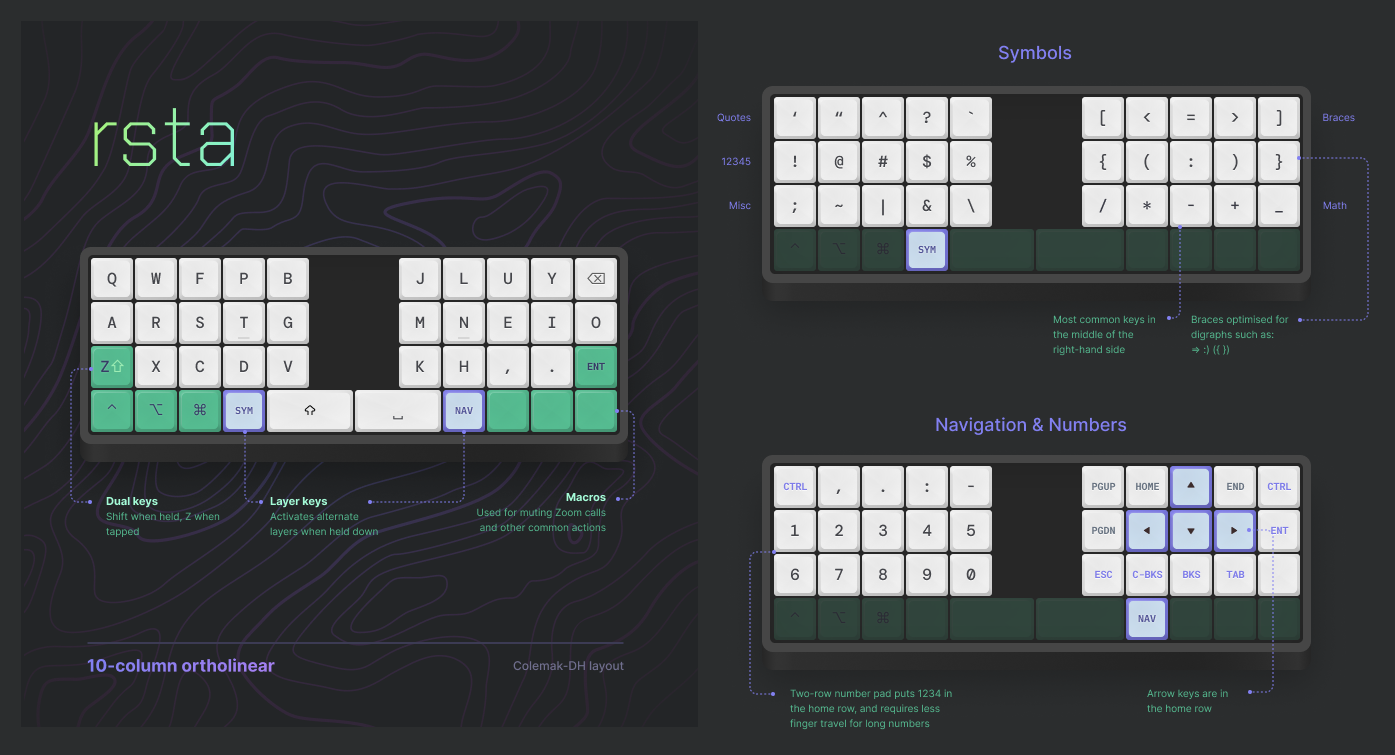
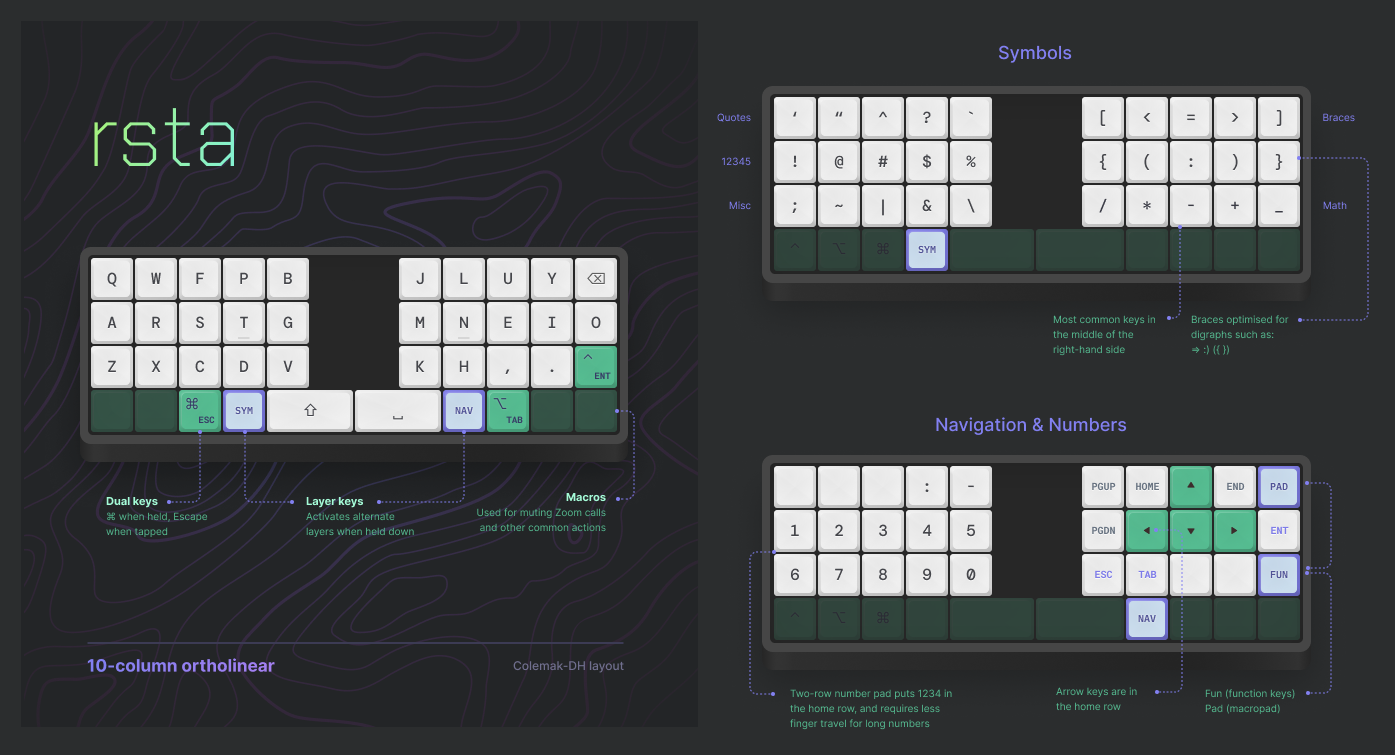
Change the way the `fun` layer is activated

diff --git a/qmk-planck/keymap.c b/qmk-planck/keymap.c
@@ -5,6 +5,8 @@
 #define xx_Z   MT(MOD_LSFT,KC_Z)     /* z + shift */
 #define xx_SPC MT(MOD_RSFT,KC_LSFT)  /* space + shift */
 #define xx_CBSP C(KC_BSPC)           /* delete word */
+#define xx_LCMD LALT_T(KC_ESC)
+#define xx_LOPT LGUI_T(KC_TAB)
 
 #define _SYM 1
 #define _NAV 2
@@ -15,8 +17,8 @@
 /* Macros */
 enum custom_keycodes {
   MC_MUTE = SAFE_RANGE,
+  MC_HAND,
   MC_SHOT,
-  MC_HTTP,
 };
 
 const uint16_t PROGMEM keymaps[][MATRIX_ROWS][MATRIX_COLS] = { /*
@@ -27,16 +29,16 @@ const uint16_t PROGMEM keymaps[][MATRIX_ROWS][MATRIX_COLS] = { /*
             ├────┼────┼────┼────┼────┤     ├────┼────┼────┼────┼────┤
             │ a  │ r  │ s  │ t  │ g  │     │ m  │ n  │ e  │ i  │ o  │ 
             ├────┼────┼────┼────┼────┤     ├────┼────┼────┼────┼────┤
-            │ z ⇧│ x  │ c  │ d  │ v  │     │ k  │ h  │ ,  │ .  │ ↵ ⌃│
-            └────┴────┴────┼────┴────┴─────┴────┴────┼────┴────┴────┘
-            │ ⌃  │ ⌥  │ ⌘  │sym │   ⇧   │   ␣   │nav │ pad│ m⁰ │    │
-  ┄         └────┴────┴─── └────┴───────┴───────┴────┘ ───┴────┴────┘ */
+            │ z  │ x  │ c  │ d  │ v  │     │ k  │ h  │ ,  │ .  │ ↵ ⌃│
+            └────┴────┼────┼────┴────┴─────┴────┴────┼────┼────┴────┘
+            │ ⌃  │ ⌥  │ ⌘ ⎋│SYM │   ⇧   │   ␣   │NAV │ ⌥ ↹│ mⁿ │ mⁿ │
+  ┄         └────┴─── └────┴────┴───────┴───────┴────┴────┘ ───┴────┘ */
 
   [0] = LAYOUT_planck_2x2u(
-    KC_Q,    KC_W,    KC_F,    KC_P,      KC_B, __x__,  __x__,  KC_J, KC_L,     KC_U,     KC_Y,    KC_BSPC,
-    KC_A,    KC_R,    KC_S,    KC_T,      KC_G, __x__,  __x__,  KC_M, KC_N,     KC_E,     KC_I,    KC_O,
-    xx_Z,    KC_X,    KC_C,    KC_D,      KC_V, __x__,  __x__,  KC_K, KC_H,     KC_COMM,  KC_DOT,  LCTL_T(KC_ENT),
-    KC_LCTL, KC_LGUI, KC_LALT, OSL(_SYM), /**/  xx_SPC, KC_SPC, /**/  MO(_NAV), TT(_PAD), MC_MUTE, KC_ENT
+    KC_Q,    KC_W,    KC_F,    KC_P,      KC_B, __x__,  __x__,  KC_J, KC_L,     KC_U,    KC_Y,    KC_BSPC,
+    KC_A,    KC_R,    KC_S,    KC_T,      KC_G, __x__,  __x__,  KC_M, KC_N,     KC_E,    KC_I,    KC_O,
+    KC_Z,    KC_X,    KC_C,    KC_D,      KC_V, __x__,  __x__,  KC_K, KC_H,     KC_COMM, KC_DOT,  LCTL_T(KC_ENT),
+    KC_LCTL, xx_LOPT, xx_LCMD, OSL(_SYM), /**/  xx_SPC, KC_SPC, /**/  MO(_NAV), xx_LOPT, MC_MUTE, MC_HAND
   ), /*
 
   ┄┄┄┄┄┄┄┄┄┄┄┄┄┄┄┄┄┄┄┄┄┄┄┄┄┄┄┄┄┄┄┄┄┄┄┄┄┄┄┄┄┄┄┄┄┄┄┄┄┄┄┄┄┄┄┄┄┄┄┄┄┄┄┄┄┄┄
@@ -45,63 +47,62 @@ const uint16_t PROGMEM keymaps[][MATRIX_ROWS][MATRIX_COLS] = { /*
             ├────┼────┼────┼────┼────┤     ├────┼────┼────┼────┼────┤
             │ !  │ @  │ #  │ $  │ %  │ 123 │ {  │ (  │ :  │ )  │ }  │
   ┌┄┄┄┄┐    ├────┼────┼────┼────┼────┤     ├────┼────┼────┼────┼────┤
-  ┆sym ┆ ┄› │ \  │ ~  │ |  │ &  │ ;  │ etc │ /  │ *  │ -  │ +  │ _  │ math
+  ┆SYM ┆ ┄› │ \  │ ~  │ |  │ &  │ ;  │ etc │ /  │ *  │ -  │ +  │ _  │ math
   └┄┄┄┄┘    └────┴────┴────┴────┴────┘     └────┴────┴────┴────┴────┘ */
 
   [_SYM] = LAYOUT_planck_2x2u(
-    KC_QUOT, KC_DQUO, KC_CIRC, KC_QUES, KC_GRV,  __x__, __x__, KC_LBRC, KC_LT,    KC_EQL,  KC_GT,   KC_RBRC,
-    KC_EXLM, KC_AT,   KC_HASH, KC_DLR,  KC_PERC, __x__, __x__, KC_LCBR, KC_LPRN,  KC_COLN, KC_RPRN, KC_RCBR,
-    KC_SCLN, KC_TILD, KC_PIPE, KC_AMPR, KC_BSLS, __x__, __x__, KC_PSLS, KC_PAST,  KC_PMNS, KC_PPLS, KC_UNDS,
-    _____,   _____,   _____,   _____,   /**/     _____, _____, /**/     MO(_FUN), _____,   _____,   _____
+    KC_QUOT, KC_DQUO, KC_CIRC, KC_QUES, KC_GRV,  __x__, __x__, KC_LBRC, KC_LT,   KC_EQL,  KC_GT,   KC_RBRC,
+    KC_EXLM, KC_AT,   KC_HASH, KC_DLR,  KC_PERC, __x__, __x__, KC_LCBR, KC_LPRN, KC_COLN, KC_RPRN, KC_RCBR,
+    KC_SCLN, KC_TILD, KC_PIPE, KC_AMPR, KC_BSLS, __x__, __x__, KC_PSLS, KC_PAST, KC_PMNS, KC_PPLS, KC_UNDS,
+    _____,   _____,   _____,   _____,   /**/     _____, _____, /**/     _____,   _____,   _____,   _____
   ), /*
 
   ┄┄┄┄┄┄┄┄┄┄┄┄┄┄┄┄┄┄┄┄┄┄┄┄┄┄┄┄┄┄┄┄┄┄┄┄┄┄┄┄┄┄┄┄┄┄┄┄┄┄┄┄┄┄┄┄┄┄┄┄┄┄┄┄┄┄┄
-  arisetnarositeq
-  Navigate  ┌────┬────┬────┬────┬────┐     ┌────┬────┏━━━━┓────┬────┐
-            │ ⎋ ⌃│ ⌥  │ ⌘  │ :  │ -  │     │pg↑ │home┃ ▲  ┃end │ ⌫ ⌃│
-            ┌────┬────┬────┬────┬────┐     ├────┏━━━━┛────┗━━━━┓────┤
+  Navigate  ┌────┬────┬────┐ ───┬────┐     ┌────┬────┏━━━━┓────┬────┐
+            │ ⌃  │ ⌥  │ ⌘  │ :  │ -  │     │pg↑ │home┃ ▲  ┃end │PAD │
+            └────┴────┴────┘ ───┼────┤     ├────┏━━━━┛────┗━━━━┓────┘
             │ 1  │ 2  │ 3  │ 4  │ 5  │     │pg↓ ┃ ◀  │ ▼  │ ▶  ┃ ↵  │
   ┌┄┄┄┄┐    ├────┼────┼────┼────┼────┤     ├────┗━━━━┷━━━━┷━━━━┛────┐
-  ┆nav ┆ ┄› │ 6  │ 7  │ 8  │ 9  │ 0  │     │ ⎋  │ ↹  │ ⌘  │ ⌥  │ ⌃  │
-  └┄┄┄┄┘    └────┴────┴────┴────┴────┘     └────┴─── └────┴────┴────┘ */
+  ┆NAV ┆ ┄› │ 6  │ 7  │ 8  │ 9  │ 0  │     │ ⎋  │ ↹  │    │    │FUN │
+  └┄┄┄┄┘    └────┴────┴────┴────┴────┘     └────┴────┴────┴────┴────┘ */
 
   [_NAV] = LAYOUT_planck_2x2u(
-    LCTL_T(KC_ESC), KC_LGUI, KC_LALT, KC_COLN,  KC_MINS, __x__, __x__, KC_PGUP, KC_HOME, KC_UP,   KC_END,  KC_RCTL,
-    KC_1,           KC_2,    KC_3,    KC_4,     KC_5,    __x__, __x__, KC_PGDN, KC_LEFT, KC_DOWN, KC_RGHT, KC_ENT,
-    KC_6,           KC_7,    KC_8,    KC_9,     KC_0,    __x__, __x__, KC_ESC,  KC_TAB,  KC_RALT, KC_RGUI, RCTL_T(KC_BSPC),
-    _____,          _____,   _____,   MO(_FUN), /**/     _____, _____, /**/     _____,   _____,   _____,   _____
+    KC_LCTL, KC_LGUI, KC_LALT, KC_COLN, KC_MINS, __x__, __x__, KC_PGUP, KC_HOME, KC_UP,   KC_END,  MO(_PAD),
+    KC_1,    KC_2,    KC_3,    KC_4,    KC_5,    __x__, __x__, KC_PGDN, KC_LEFT, KC_DOWN, KC_RGHT, KC_ENT,
+    KC_6,    KC_7,    KC_8,    KC_9,    KC_0,    __x__, __x__, KC_ESC,  KC_TAB,  __x__,   __x__,   MO(_FUN),
+    _____,   _____,   _____,   _____,   /**/     _____, _____, /**/     _____,   _____,   _____,   _____
   ), /*
 
   ┄┄┄┄┄┄┄┄┄┄┄┄┄┄┄┄┄┄┄┄┄┄┄┄┄┄┄┄┄┄┄┄┄┄┄┄┄┄┄┄┄┄┄┄┄┄┄┄┄┄┄┄┄┄┄┄┄┄┄┄┄┄┄┄┄┄┄
-  Numpad +  ┌────┬────┬────┬────┬────┐     ┌────┏━━━━┯━━━━┯━━━━┓────┐
-  Macropad  │    │    │ .  │    │    │     │ :  ┃ 1  │ 2  │ 3  ┃ /  │
-            ├────┼────┼────┼────┼────┤     ├────┃────┼────┼────┃────┤
-            │http│    │    │    │ m¹ │     │ -  ┃ 4  │ 5  │ 6  ┃ +  │
-  ┌┄┄┄┄┐    ├────┼────┼────┼────┼────┤     ├────┃────┼────┼────┃────┤
-  ┆pad ┆ ┄› │bck │hom │caps│cmbt│    │     │ 0  ┃ 7  │ 8  │ 9  ┃ *  │
-  └┄┄┄┄┘    └────┴────┴────┴────┴────┘     └────┗━━━━┷━━━━┷━━━━┛────┘ */
+  Numpad +  ┌────┏━━━━┯━━━━┯━━━━┓────┐     ┌────┬────┬────┬────┬────┐
+  Macropad  │ :  ┃ 1  │ 2  │ 3  ┃ /  │     │ ✓  │ ✓  │ .  │    │ ▓▓ │
+            ├────┃────┼────┼────┃────┤     ├────┼────┼────┼────┼────┤
+            │ -  ┃ 4  │ 5  │ 6  ┃ +  │     │ m¹ │    │    │    │    │
+  ┌┄┄┄┄┐    ├────┃────┼────┼────┃────┤     ├────┼────┼────┼────┼────┤
+  ┆PAD ┆ ┄› │ *  ┃ 7  │ 8  │ 9  ┃ 0  │     │bck │hom │caps│cmbt│    │
+  └┄┄┄┄┘    └────┗━━━━┷━━━━┷━━━━┛────┘     └────┴────┴────┴────┴────┘ */
 
   [_PAD] = LAYOUT_planck_2x2u(
-    LAG_SWP,     LAG_NRM,     KC_DOT,  __x__,   __x__,   __x__, __x__, KC_COLN, KC_1,  KC_2,  KC_3,  KC_PSLS,
-    MC_HTTP,     __x__,       __x__,   __x__,   MC_SHOT, __x__, __x__, KC_PMNS, KC_4,  KC_5,  KC_6,  KC_PPLS,
-    KC_WWW_BACK, KC_WWW_HOME, KC_CAPS, CMB_TOG, __x__,   __x__, __x__, KC_0,    KC_7,  KC_8,  KC_9,  KC_PAST,
-    _____,       _____,       _____,   _____,   /**/     _____, _____, /**/     _____, _____, _____, DF(_GAM)
+    KC_COLN, KC_1,  KC_2,  KC_3,  KC_PSLS, __x__, __x__, LAG_SWP,     LAG_NRM,     KC_DOT,  __x__,   __x__,
+    KC_PMNS, KC_4,  KC_5,  KC_6,  KC_PPLS, __x__, __x__, MC_SHOT,     __x__,       __x__,   __x__,   __x__,
+    KC_0,    KC_7,  KC_8,  KC_9,  KC_PAST, __x__, __x__, KC_WWW_BACK, KC_WWW_HOME, KC_CAPS, CMB_TOG, __x__,
+    _____,   _____, _____, _____, /**/     _____, _____, /**/         _____,       _____,   _____,   DF(_GAM)
   ), /*
 
   ┄┄┄┄┄┄┄┄┄┄┄┄┄┄┄┄┄┄┄┄┄┄┄┄┄┄┄┄┄┄┄┄┄┄┄┄┄┄┄┄┄┄┄┄┄┄┄┄┄┄┄┄┄┄┄┄┄┄┄┄┄┄┄┄┄┄┄
   Function  ┏━━━━┓────┬────┌────┬────┐     ┌────┬────┏━━━━┓────┬────┐
-            ┃rset┃ f₁₁│f₁₂ │rmb │lmb │     │ w↑ │play┃ ▲  ┃next│vol⁺│
-  ┌┄┄┄┄┐    ┗━━━━┛ ───┼─── └────┴────┘     ├────┏━━━━┛────┗━━━━┓────┤
-  ┆sym ┆    │ f₁ │ f₂ │ f₃ │ f₄ │ f₅ │     │ w↓ ┃ ◀  │ ▼  │ ▶  ┃vol⁻│
-  └┄┄┄┄┘ ┐  ├────┼────┼────┼────┼────┤     ├────┗━━━━┷━━━━┷━━━━┛────┤
-    ┆nav ┆  │ f₆ │ f₇ │ f₈ │ f₉ │f₁₀ │     │    │    │rgb │scr⁻│scr⁺│
-    └┄┄┄┄┘  └────┴────┴────┴────┴────┘     └────┴────┴────┴────┴────┘ */
+            ┃rset┃ f₁₁│f₁₂ │Lmb │    │     │ w↑ │play┃ ▲  ┃next│Rmb │
+            ┗━━━━┛ ───┼─── └────┴────┘     ├────┏━━━━┛────┗━━━━┓────┤
+            │ f₁ │ f₂ │ f₃ │ f₄ │ f₅ │     │ w↓ ┃ ◀  │ ▼  │ ▶  ┃rgb │
+  ┌┄┄┄┄┐    ├────┼────┼────┼────┼────┤     ├────┗━━━━┷━━━━┷━━━━┛────┤
+  ┆FUN ┆ ┄› │ f₆ │ f₇ │ f₈ │ f₉ │f₁₀ │     │vol⁻│vol⁺│scr⁻│scr⁺│ ▓▓ │
+  └┄┄┄┄┘    └────┴────┴────┴────┴────┘     └────┴────┴────┴────┴────┘ */
 
   [_FUN] = LAYOUT_planck_2x2u(
-    RESET, KC_F11, KC_F12, KC_MS_BTN2, KC_MS_BTN1, __x__, __x__, KC_WH_U, KC_MPLY, KC_MS_U, KC_MNXT, KC_VOLU,
-    KC_F1, KC_F2,  KC_F3,  KC_F4,      KC_F5,      __x__, __x__, KC_WH_D, KC_MS_L, KC_MS_D, KC_MS_R, KC_VOLD,
-    KC_F6, KC_F7,  KC_F8,  KC_F9,      KC_F10,     __x__, __x__, __x__,   __x__,   RGB_TOG, KC_BRID, KC_BRIU,
-    _____, _____,  _____,  _____,      /**/        _____, _____, /**/     _____,   _____,   _____,   _____
+    RESET, KC_F11, KC_F12, KC_MS_BTN1, _____,  __x__, __x__, KC_WH_U, KC_MPLY, KC_MS_U, KC_MNXT, KC_MS_BTN2,
+    KC_F1, KC_F2,  KC_F3,  KC_F4,      KC_F5,  __x__, __x__, KC_WH_D, KC_MS_L, KC_MS_D, KC_MS_R, RGB_TOG,
+    KC_F6, KC_F7,  KC_F8,  KC_F9,      KC_F10, __x__, __x__, KC_VOLD, KC_VOLU, KC_BRID, KC_BRIU, _____,
+    _____, _____,  _____,  _____,      /**/    _____, _____, /**/     _____,   _____,   _____,   _____
   ), /*
 
   ┄┄┄┄┄┄┄┄┄┄┄┄┄┄┄┄┄┄┄┄┄┄┄┄┄┄┄┄┄┄┄┄┄┄┄┄┄┄┄┄┄┄┄┄┄┄┄┄┄┄┄┄┄┄┄┄┄┄┄┄┄┄┄┄┄┄┄
@@ -186,14 +187,14 @@ bool process_record_user(uint16_t keycode, keyrecord_t *record) {
         SEND_STRING(SS_LSFT(SS_LALT("a")));
     }
     break;
+  case MC_HAND:
+    if (record->event.pressed) {
+        SEND_STRING(SS_LSFT(SS_LALT("y")));
+    }
+    break;
   case MC_SHOT:
     if (record->event.pressed) {
         SEND_STRING(SS_LSFT(SS_LCTL(SS_LALT("4"))));
-    }
-    break;
-  case MC_HTTP:
-    if (record->event.pressed) {
-        SEND_STRING("https://");
     }
     break;
   }

diff --git a/README.md b/README.md
@@ -1,8 +1,8 @@
-# My keymap
+<h1 align='center'>rsta keymap</h1>
 
-My personal keymaps for the [QMK firmware] for mechanical keyboards.
-
-[qmk firmware]: https://qmk.fm/
+<p align='center'>
+My personal keymaps for the <a href='https://qmk.fm/'>QMK firmware</a> for mechanical keyboards.
+</p>
 
 ![Preview of the keymap](./preview.png)
 
@@ -17,5 +17,5 @@ My personal keymaps for the [QMK firmware] for mechanical keyboards.
 
 ## Contents
 
-- [**rsta/**](./rsta/) &mdash; QMK keymap for an OLKB planck keyboard
+- [**qmk-planck/**](./qmk-planck/) &mdash; QMK keymap for an OLKB planck keyboard
 - [**kmonad/**](./kmonad/) &mdash; Keymaps for kmonad for laptop keyboards
